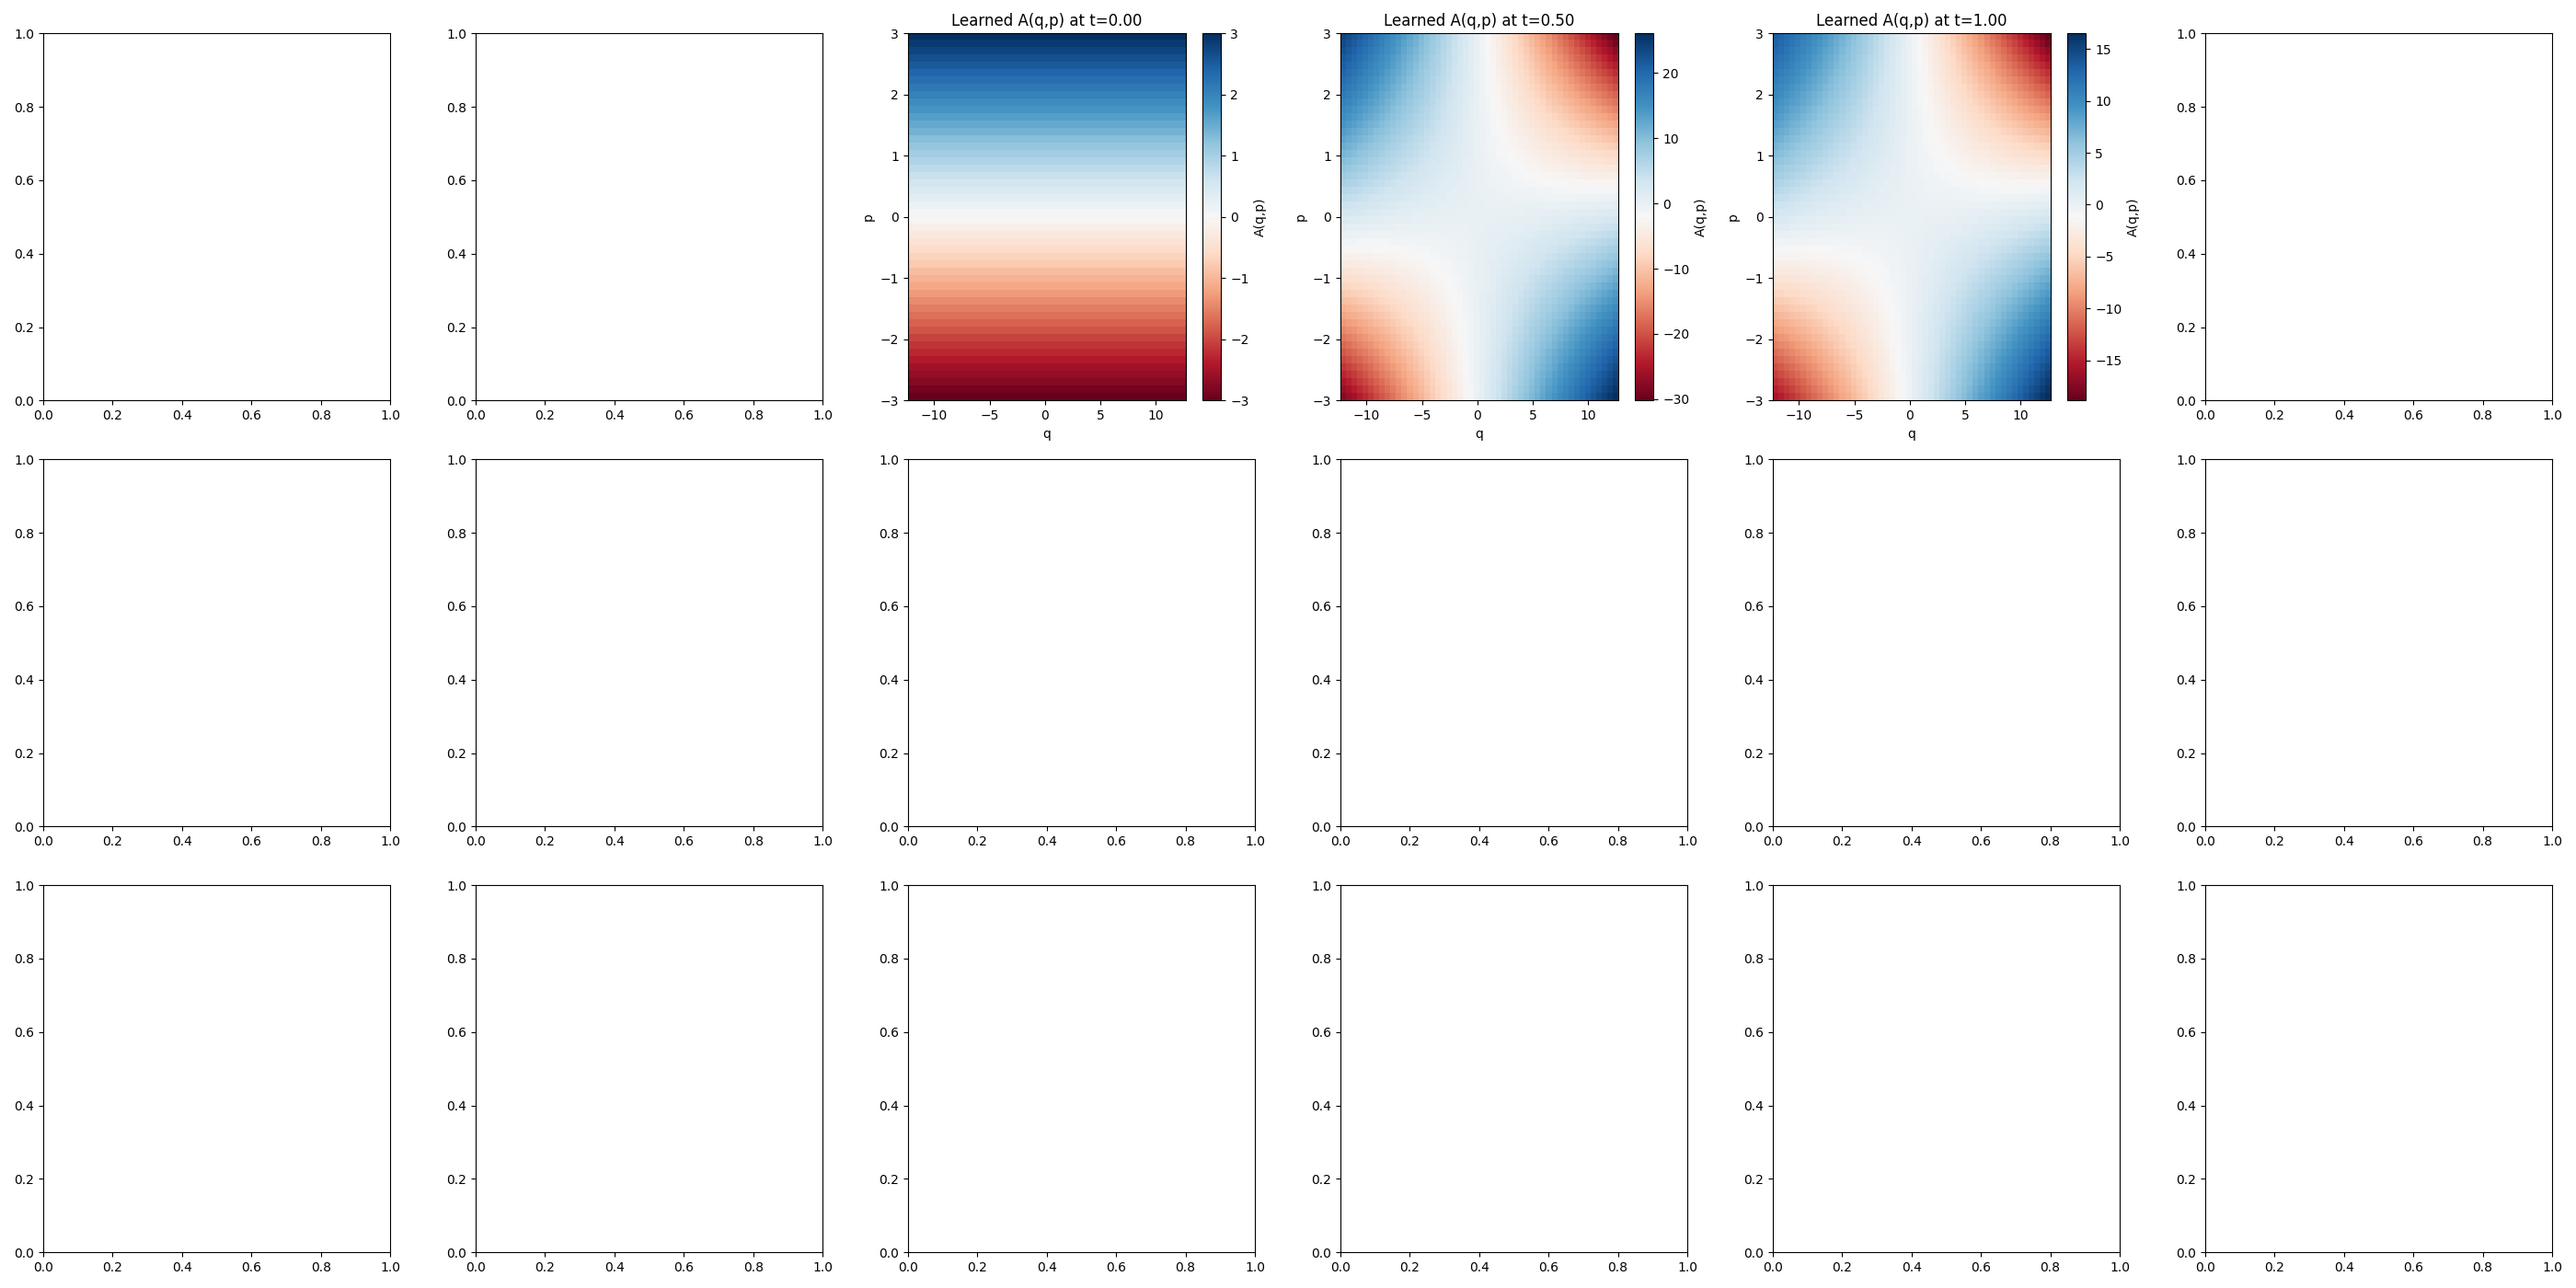
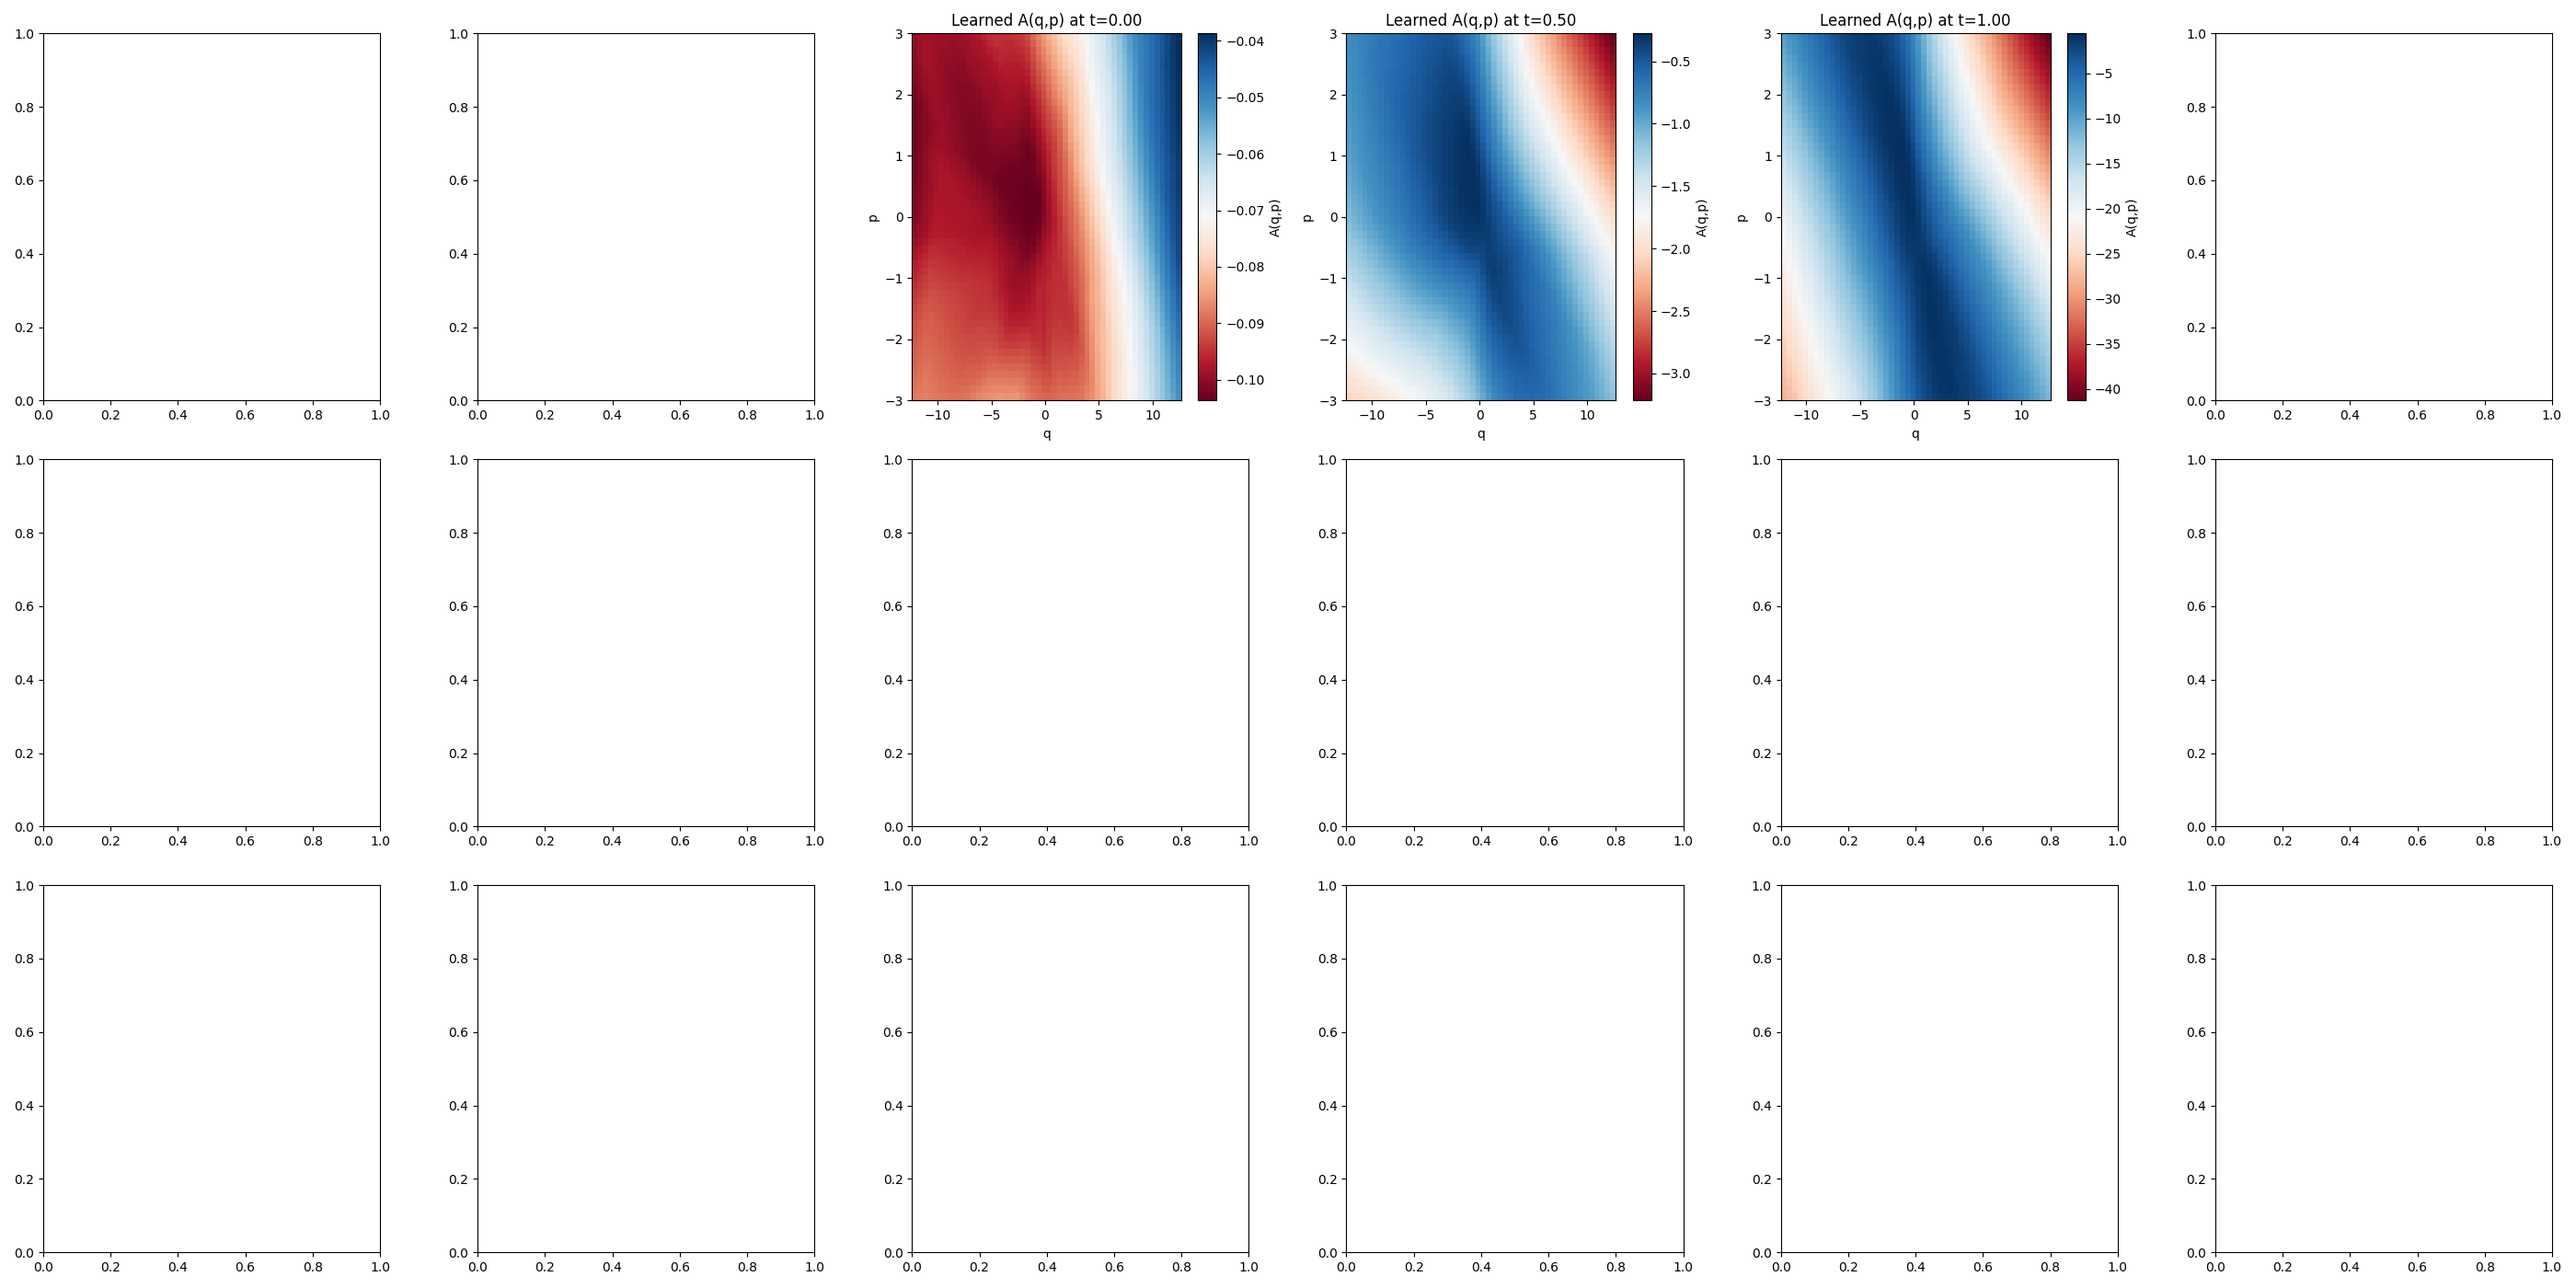
variance control working nicely

Changed region(s): [[0.3418, 0.0, 0.8079, 0.3379]]

diff --git a/counterdiabatic_hmc.py b/counterdiabatic_hmc.py
@@ -108,7 +108,7 @@ def make_cd_leapfrog_step(T, V, A_ansatz, theta, lam, lam_next, dot_lam, dot_lam
 
 
 # =============================================================================
-# 6) SImuLATION: NAÏVE HMC VS CD WITH ONLINE FITTING
+# 6) SIMULATION: NAÏVE HMC VS CD WITH ONLINE FITTING
 # =============================================================================
 def generate_initial_samples(M, make_T, make_V, lam, key, num_steps=5000, eps=0.05):
     """Generate M samples from the distribution at the given temperature using HMC."""
@@ -152,6 +152,17 @@ def run_simulation(M, N_steps, delta_t, eps, momentum_refresh_interval, make_T, 
         lam_k = float(lam_fn(t_k))
         dot_lam_k = float(dot_lam_fn(t_k))
 
+
+        # Re-fit A every 10 steps
+        if (k % 10 == 0) and (k < N_steps):
+            samples = np.stack([np.array(q_cd), np.array(p_cd)], axis=1)
+            theta, loss_history = fit_gauge_potential(lam_k, samples, init_params=theta,
+                                        make_T=make_T, make_V=make_V,
+                                        A_ansatz=A_ansatz,
+                                        num_iters=5000, lr=1e-3)
+        
+            if k % 10 == 0:
+                loss_histories.append(loss_history)
         # Record histograms every 10 steps
         if k % 10 == 0:
             snapshots['naive'].append(np.array(q_naive))
@@ -160,15 +171,14 @@ def run_simulation(M, N_steps, delta_t, eps, momentum_refresh_interval, make_T, 
             # Record parameters
             if isinstance(theta, PolynomialAnsatz):
                 theta_history.append(np.array(theta.params))
-
-        # Re-fit A every 10 steps
-        if (k % 1 == 0) and (k < N_steps):
-            samples = np.stack([np.array(q_cd), np.array(p_cd)], axis=1)
-            theta, loss_history = fit_gauge_potential(lam_k, samples, init_params=theta,
-                                        make_T=make_T, make_V=make_V,
-                                        A_ansatz=A_ansatz,
-                                        num_iters=10000, lr=0.0005)
-            loss_histories.append(loss_history)
+            elif isinstance(theta, NeuralNetworkAnsatz):
+                # Store just the parameters as a tuple of arrays
+                params = []
+                for layer in theta.layers:
+                    if isinstance(layer, eqx.nn.Linear):
+                        params.append(np.array(layer.weight))
+                        params.append(np.array(layer.bias))
+                theta_history.append(tuple(params))
 
         # Randomize momenta for naive HMC every momentum_refresh_interval steps
         if (k % momentum_refresh_interval == 0) and (k < N_steps):
@@ -199,14 +209,38 @@ def run_simulation(M, N_steps, delta_t, eps, momentum_refresh_interval, make_T, 
 
     return theta, snapshots, loss_histories, theta_history
 
-def plot_learned_ansatz(ax, theta, A_ansatz, q_range=(-3, 3), p_range=(-3, 3), n_points=50):
-    """Plot the learned ansatz function A(q,p) as a 2D surface."""
+def plot_learned_ansatz(ax, theta, ansatz, q_range=(-3, 3), p_range=(-3, 3), n_points=50):
+    """Plot the learned ansatz function A(q,p) as a 2D surface.
+    
+    Args:
+        ax: matplotlib axis to plot on
+        theta: parameters for the ansatz
+        ansatz: the ansatz object (either PolynomialAnsatz or NeuralNetworkAnsatz)
+        q_range: tuple of (min_q, max_q)
+        p_range: tuple of (min_p, max_p)
+        n_points: number of points in each dimension for the grid
+    """
     q = np.linspace(q_range[0], q_range[1], n_points)
     p = np.linspace(p_range[0], p_range[1], n_points)
     Q, P = np.meshgrid(q, p)
     
-    # Create ansatz instance with current parameters
-    ansatz = PolynomialAnsatz(theta)
+    # # Update the ansatz with the saved parameters
+    # if ansatz.ansatz_type == 'polynomial':
+    #     # For polynomial, theta is the parameters directly
+    #     current_ansatz = PolynomialAnsatz(theta)
+    # elif ansatz.ansatz_type == 'neural':
+    #     # For neural network, create a new network with the saved parameters
+    #     key = jax.random.PRNGKey(0)
+    #     current_ansatz = NeuralNetworkAnsatz([2, 16, 16, 1], key)
+    #     # Update each layer's parameters using eqx.tree_at
+    #     param_idx = 0
+    #     for i, layer in enumerate(current_ansatz.layers):
+    #         if isinstance(layer, eqx.nn.Linear):
+    #             current_ansatz = eqx.tree_at(lambda x: x.layers[i].weight, current_ansatz, theta[param_idx])
+    #             current_ansatz = eqx.tree_at(lambda x: x.layers[i].bias, current_ansatz, theta[param_idx + 1])
+    #             param_idx += 2
+    # else:
+    #     raise ValueError(f"Unknown ansatz type: {ansatz.ansatz_type}")
     
     # Evaluate A(q,p) at each point
     A_values = np.zeros_like(Q)
@@ -221,7 +255,7 @@ def plot_learned_ansatz(ax, theta, A_ansatz, q_range=(-3, 3), p_range=(-3, 3), n
     ax.set_ylabel('p')
     plt.colorbar(im, ax=ax, label='A(q,p)')
 
-def plot_results(theta_history, snapshots, loss_histories, delta_t, make_V, lam_fn, param_history=None):
+def plot_results(theta_history, snapshots, loss_histories, delta_t, make_V, lam_fn, param_history=None, ansatz=None, ansatz_type=None):
     # Create two figures: one for distributions and one for the learned ansatz
     fig1, axes1 = plt.subplots(3, 6, figsize=(28, 14))
     fig2, axes2 = plt.subplots(3, 6, figsize=(28, 14))
@@ -237,8 +271,8 @@ def plot_results(theta_history, snapshots, loss_histories, delta_t, make_V, lam_
         axes1[0].plot(loss_history, label=f'Fit {i+1}')
     axes1[0].legend()
 
-    # Plot parameter history if available
-    if param_history is not None:
+    # Plot parameter history if available (only for polynomial ansatz)
+    if param_history is not None and len(param_history) > 0 and ansatz_type == 'polynomial':
         param_times = np.arange(len(param_history)) * delta_t * 10
         axes1[1].set_title("Learned parameters over time")
         axes1[1].set_xlabel("t")
@@ -285,16 +319,16 @@ def plot_results(theta_history, snapshots, loss_histories, delta_t, make_V, lam_
         ax2 = axes2[plot_idx + 2]
         if param_history is not None and snap_idx < len(param_history):
             theta = param_history[snap_idx]
-            plot_learned_ansatz(ax2, theta, lambda x: x, q_range=(x_min, x_max), p_range=(-3, 3))
+            plot_learned_ansatz(ax2, theta, ansatz, q_range=(x_min, x_max), p_range=(-3, 3))
             ax2.set_title(f"Learned A(q,p) at t={snap_idx*10*delta_t:.2f}")
 
     plt.figure(fig1.number)
     plt.tight_layout()
-    plt.savefig("counterdiabatic_distributions.png")
+    plt.savefig(f"counterdiabatic_distributions_{ansatz_type}.png")
     
     plt.figure(fig2.number)
     plt.tight_layout()
-    plt.savefig("counterdiabatic_ansatz.png")
+    plt.savefig(f"counterdiabatic_ansatz_{ansatz_type}.png")
 
 
 class A_ansatz(eqx.Module):
@@ -302,16 +336,57 @@ class A_ansatz(eqx.Module):
     def __call__(self, q, p):
         raise NotImplementedError
 
+def generate_polynomial_terms(max_degree):
+    """Generate all polynomial terms up to max_degree in p and q.
+    
+    Returns a list of tuples (coeff_name, q_power, p_power) representing terms like:
+    - (θ1, 0, 1) for p
+    - (θ2, 1, 1) for p*q
+    - (θ3, 2, 0) for q^2
+    etc.
+    """
+    terms = []
+    term_idx = 1
+    
+    for total_degree in range(max_degree + 1):
+        for q_power in range(total_degree + 1):
+            p_power = total_degree - q_power
+            terms.append((f"θ{term_idx}", q_power, p_power))
+            term_idx += 1
+    
+    return terms
+
+max_degree = 3
+
 class PolynomialAnsatz(A_ansatz):
     """Polynomial ansatz for the gauge potential."""
     params: jnp.ndarray
+    # terms: list
 
-    def __init__(self, params):
-        self.params = params
+    def __init__(self):
+        # self.terms = 
+        # Initialize parameters to zero
+        self.params = jnp.zeros(len(generate_polynomial_terms(max_degree)))
 
     def __call__(self, q, p):
-        θ1, θ2, θ3, θ4, θ5, θ6 = self.params
-        return θ1 * p + θ2 * (q * p) + θ3 * (q ** 2) + θ4 * (p * q**2) + θ5 * (p**2) + θ6 * (q**2 * p**2)
+        result = 0.0
+        for i, (_, q_power, p_power) in enumerate(generate_polynomial_terms(max_degree)):
+            result += self.params[i] * (q ** q_power) * (p ** p_power)
+        return result
+
+    def get_term_description(self):
+        """Return a description of what each parameter represents."""
+        descriptions = []
+        for coeff_name, q_power, p_power in generate_polynomial_terms(max_degree):
+            term_str = ""
+            if q_power > 0:
+                term_str += f"q^{q_power}" if q_power > 1 else "q"
+            if p_power > 0:
+                term_str += f"p^{p_power}" if p_power > 1 else "p"
+            if not term_str:
+                term_str = "1"
+            descriptions.append(f"{coeff_name}: {term_str}")
+        return descriptions
 
 class NeuralNetworkAnsatz(A_ansatz):
     """Neural network ansatz for the gauge potential."""
@@ -362,15 +437,24 @@ def main():
     key = jax.random.PRNGKey(0)
     # For neural network:
     d = 1
-    # ansatz = NeuralNetworkAnsatz([2*d, 32, 32, 32, 32, 32, 32, d], key)
+    # ansatz = NeuralNetworkAnsatz([2*d, 128, 256, 128, d], key)
+    # ansatz_type = 'neural_network'
     # For polynomial:
-    ansatz = PolynomialAnsatz(jnp.array([1.0, 0.0, 0.0, 0.0, 0.0, 0.0]))
+    ansatz = PolynomialAnsatz()
+    ansatz_type = 'polynomial'
+    
+    # Print polynomial terms if using polynomial ansatz
+    if ansatz_type == 'polynomial':
+        print("Polynomial terms:")
+        for desc in ansatz.get_term_description():
+            print(f"  {desc}")
+        print(f"Total number of parameters: {len(ansatz.params)}")
     
     theta_history, snapshots, loss_histories, param_history = run_simulation(
         M, N_steps, delta_t, eps, momentum_refresh_interval,
         make_T, make_V, lambda x: x, lam_fn, dot_lam_fn, fit_gauge_potential, ansatz
     )
-    plot_results(theta_history, snapshots, loss_histories, delta_t, make_V, lam_fn, param_history)
+    plot_results(theta_history, snapshots, loss_histories, delta_t, make_V, lam_fn, param_history, ansatz, ansatz_type)
 
 if __name__ == '__main__':
     main()
